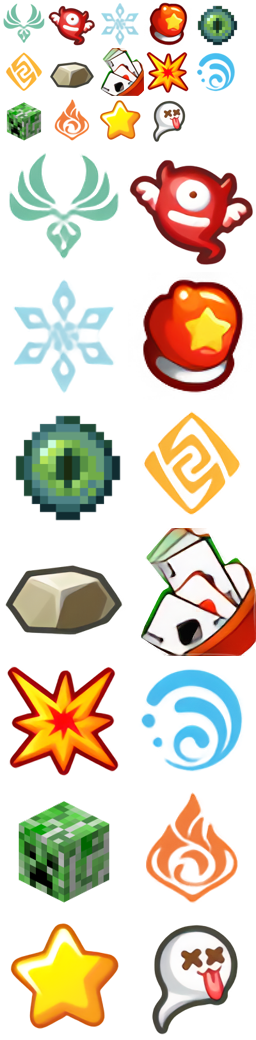
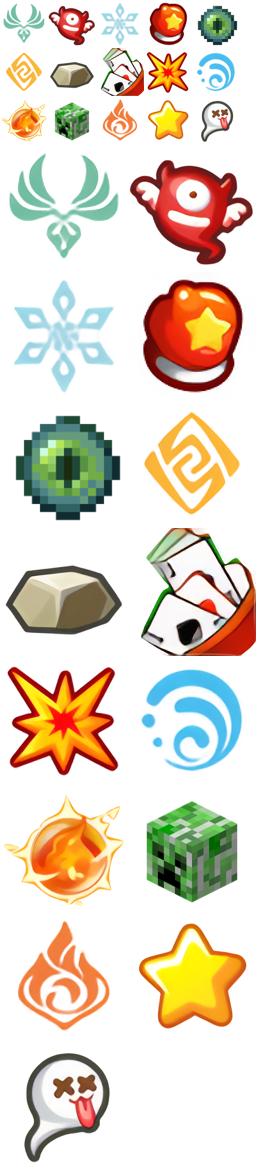
新增能力：同归于尽

diff --git a/src/main/java/power/NextTurnDiePower.java b/src/main/java/power/NextTurnDiePower.java
@@ -1,0 +1,49 @@
+package power;
+//下回合死亡
+import com.badlogic.gdx.Gdx;
+import com.badlogic.gdx.graphics.g2d.TextureAtlas;
+import com.megacrit.cardcrawl.actions.animations.VFXAction;
+import com.megacrit.cardcrawl.actions.common.LoseHPAction;
+import com.megacrit.cardcrawl.actions.common.RemoveSpecificPowerAction;
+import com.megacrit.cardcrawl.core.AbstractCreature;
+import com.megacrit.cardcrawl.core.CardCrawlGame;
+import com.megacrit.cardcrawl.localization.PowerStrings;
+import com.megacrit.cardcrawl.powers.AbstractPower;
+import com.megacrit.cardcrawl.vfx.combat.LightningEffect;
+
+public class NextTurnDiePower extends AbstractPower {
+    public static final String POWER_ID = "NextTurnDiePower";
+
+    private static final PowerStrings powerStrings = CardCrawlGame.languagePack.getPowerStrings("NextTurnDiePower");
+
+    public static final String NAME = powerStrings.NAME;
+
+    public static final String[] DESCRIPTIONS = powerStrings.DESCRIPTIONS;
+
+    public static TextureAtlas atlas_self;
+
+    public NextTurnDiePower(AbstractCreature owner) {
+        super();
+        atlas_self = new TextureAtlas(Gdx.files.internal("powers/Selfpowers.atlas"));
+        this.name = NAME;
+        this.ID = POWER_ID;
+        this.owner = owner;
+        updateDescription();
+        this.region48 = atlas_self.findRegion("48/NextTurnDiePower");
+        this.region128 = atlas_self.findRegion("128/NextTurnDiePower");
+        this.type = AbstractPower.PowerType.BUFF;
+    }
+
+    @Override
+    public void updateDescription() {
+        this.description = powerStrings.DESCRIPTIONS[0];
+    }
+
+    @Override
+    public void atStartOfTurn() {
+        flash();
+        addToBot(new VFXAction(new LightningEffect(this.owner.hb.cX, this.owner.hb.cY)));
+        addToBot(new LoseHPAction(this.owner, this.owner, 99999));
+        addToBot(new RemoveSpecificPowerAction(this.owner, this.owner, "NextTurnDiePower"));
+    }
+}
